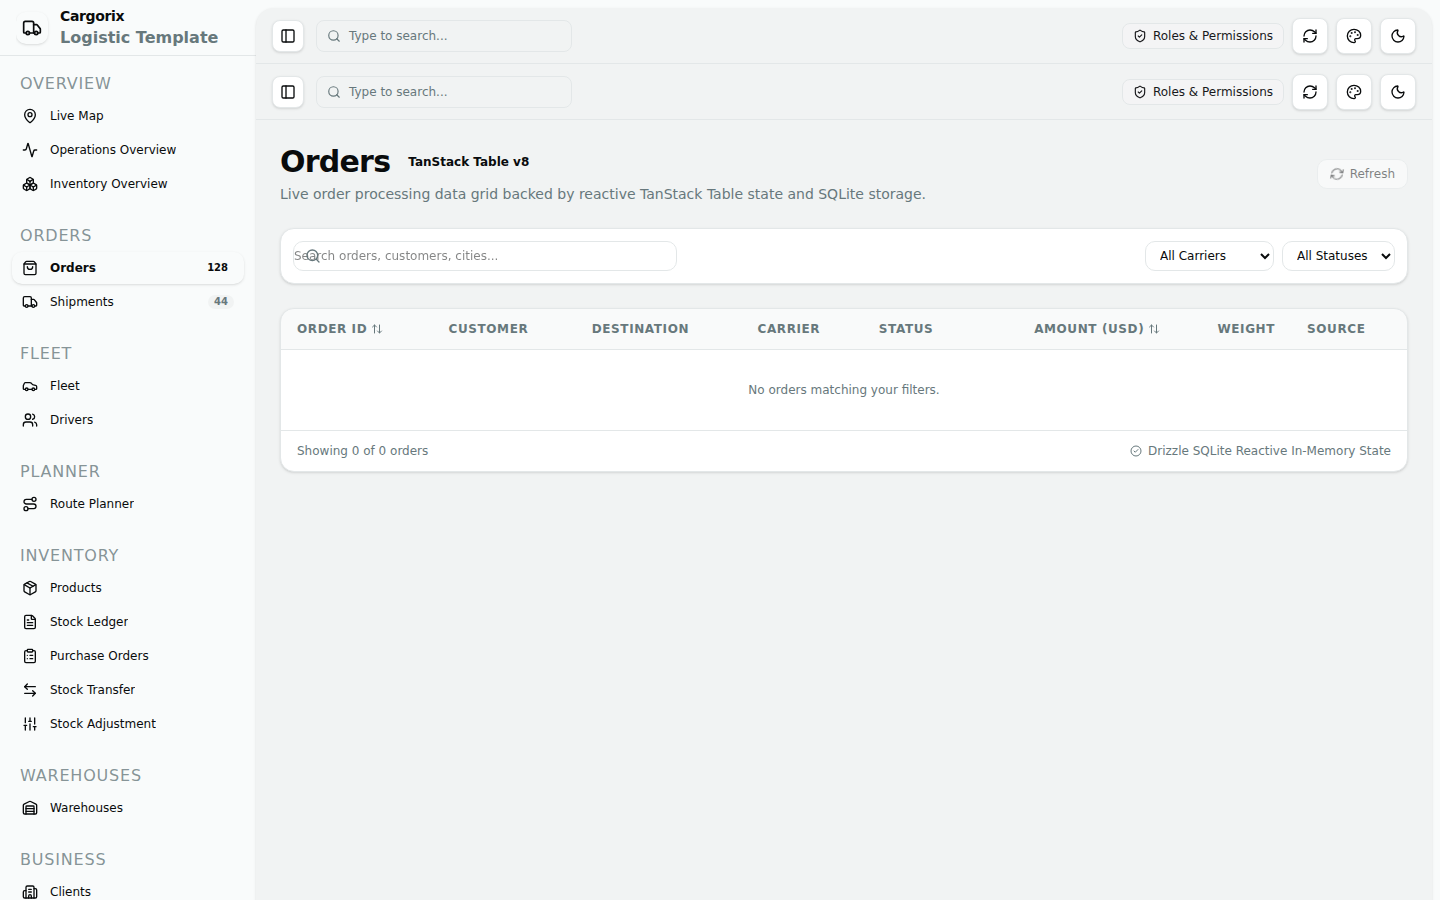
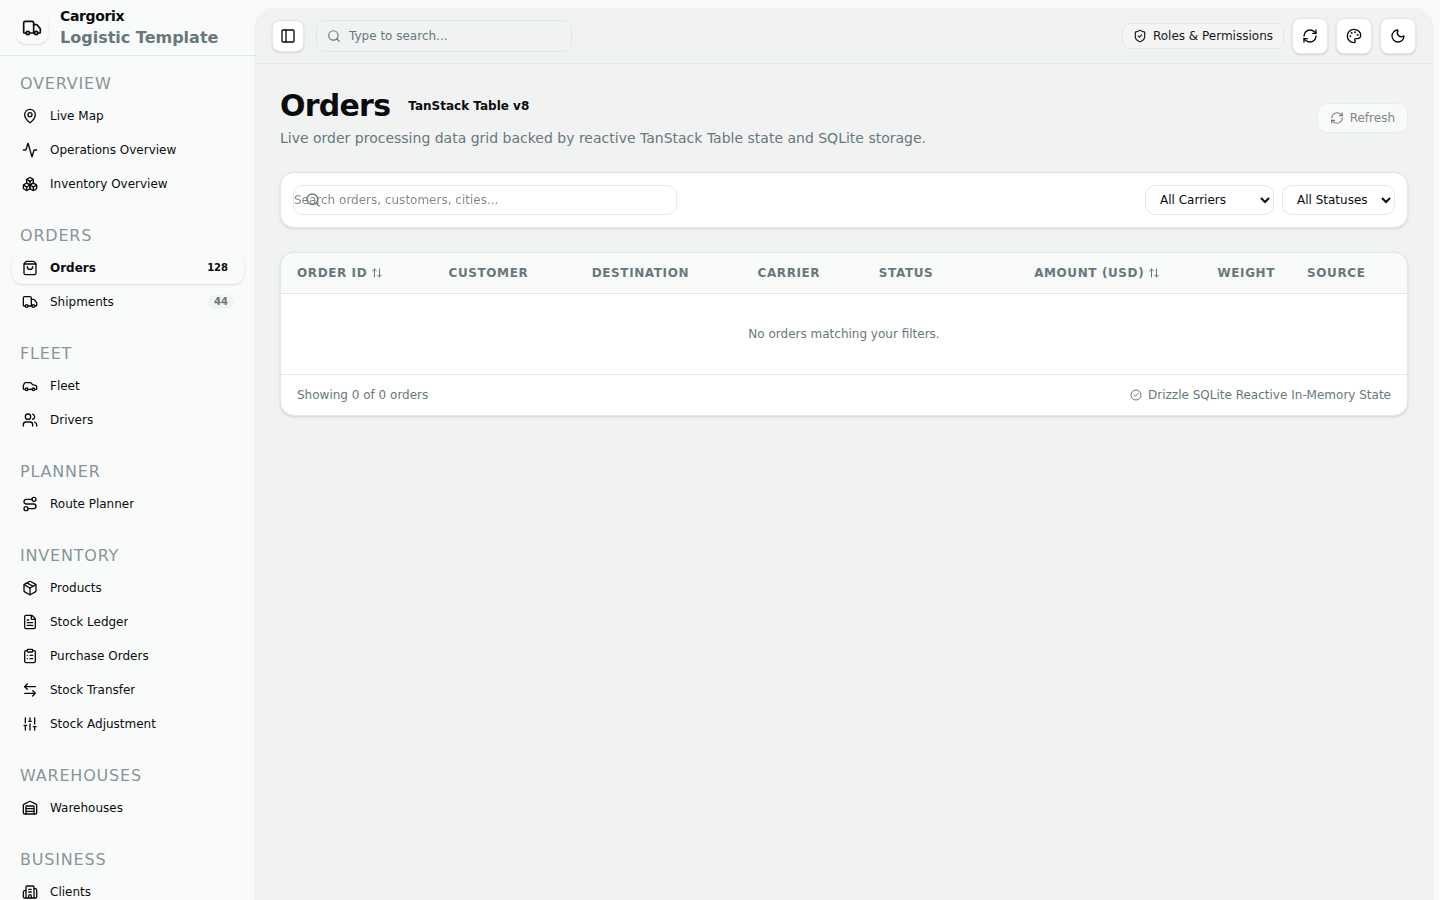
fix(layout): remove duplicate SiteHeader in root shell to prevent double navbar

diff --git a/src/routes/__root.tsx b/src/routes/__root.tsx
@@ -2,7 +2,6 @@ import { createRootRouteWithContext, Outlet } from '@tanstack/react-router';
 import type { QueryClient } from '@tanstack/react-query';
 import React from 'react';
 import { SidebarWrapper } from '@/components/SidebarWrapper';
-import { SiteHeader } from '@/components/SiteHeader';
 import { ThemeCustomizer } from '@/components/ThemeCustomizer';
 
 export interface MyRouterContext {
@@ -17,12 +16,7 @@ function RootComponent() {
   return (
     <div className="min-h-screen bg-background text-foreground antialiased font-sans">
       <SidebarWrapper>
-        <div className="flex min-h-screen flex-1 flex-col">
-          <SiteHeader />
-          <main className="flex-1">
-            <Outlet />
-          </main>
-        </div>
+        <Outlet />
       </SidebarWrapper>
       <ThemeCustomizer />
     </div>
